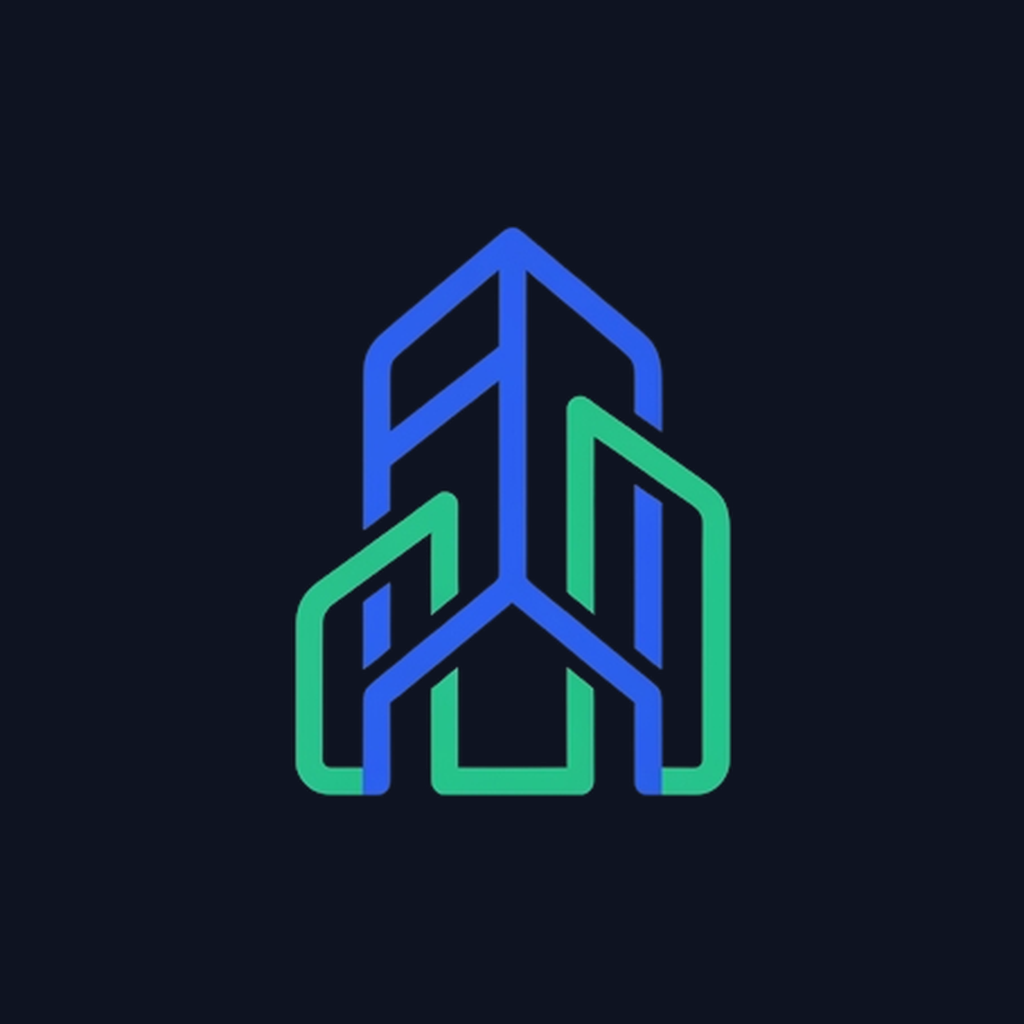
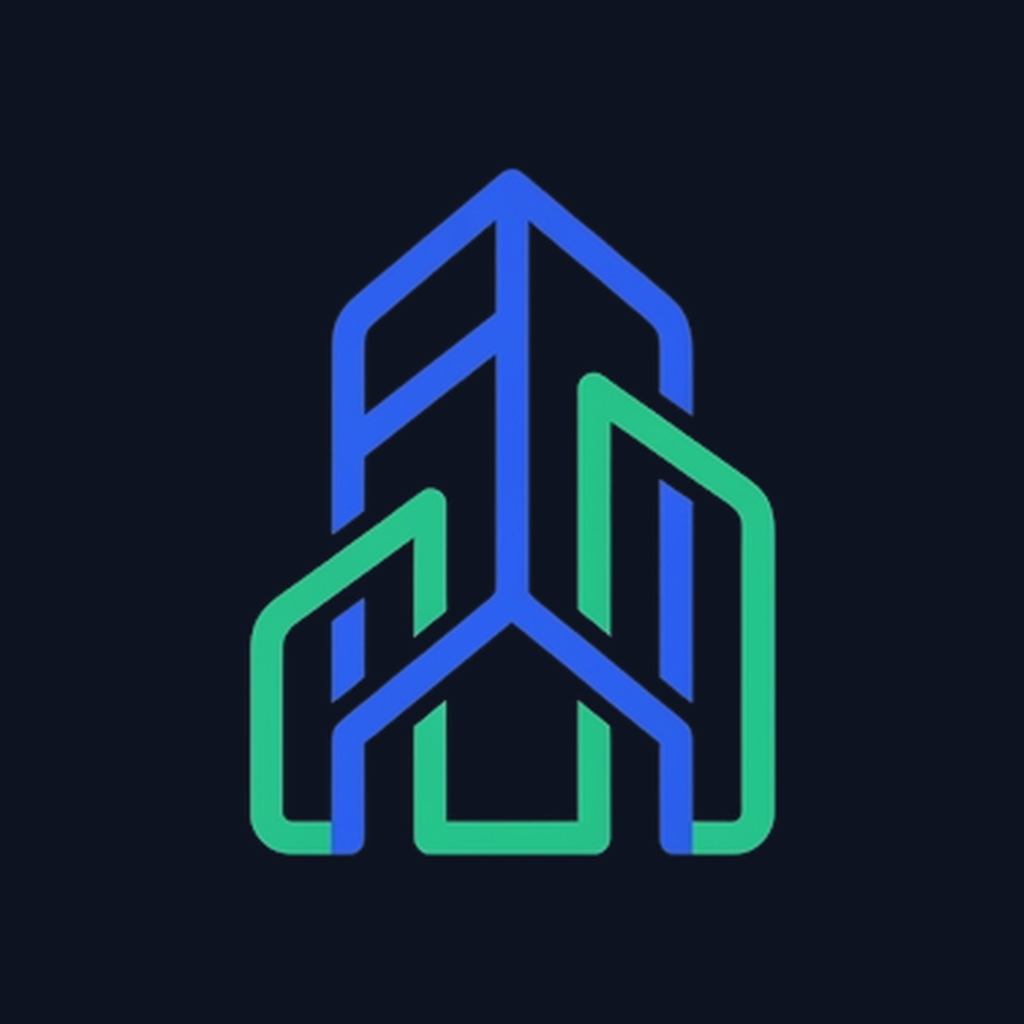
fix: ícono de la app pixelado + tabla y gráfica de Reportes
Íconos: el glifo ocupaba solo ~43% del lienzo de 1024x1024, así que
al verse a tamaño de ícono de app (40-70px) perdía definición y se
veía borroso/pixelado. Se recortó y reescaló el mismo glifo para
llenar más el marco (icon.png ~72% de alto, adaptive-icon.png ~60%
para respetar la zona segura circular de Android) y adaptive-icon.png
ahora usa el mismo fondo navy que backgroundColor en vez de blanco.
favicon.png regenerado igual.

Reportes:
- Tabla "Ingreso por Departamento" usaba columnas de ancho fijo con
  scroll horizontal siempre, dejando un hueco vacío grande en
  pantallas anchas. En desktop ahora las columnas usan flex y llenan
  el ancho completo de la tarjeta; en mobile se conserva el scroll
  horizontal con anchos fijos (necesario con 14 columnas angostas).
- Gráfica "Flujo mensual de recaudación": las barras no tenían
  interacción. Ahora al pasar el mouse (o tocar en móvil) sobre una
  barra aparece un tooltip con el mes, el desglose (renta/extras/
  depósitos) y el total. Además el área de barras ahora es flex y
  llena el alto disponible de la tarjeta en vez de dejar un espacio
  vacío grande debajo cuando la tarjeta se estira para igualar al
  panel lateral.

Claude-Session: https://claude.ai/code/session_01AUcRpMWinJWnXKiEepFJsK

Changed region(s): [[0.2188, 0.1562, 0.7812, 0.8438]]

diff --git a/frontend/app/(admin)/reportes/index.tsx b/frontend/app/(admin)/reportes/index.tsx
@@ -1,5 +1,5 @@
 import {
-  StyleSheet, View, Text, ScrollView, TouchableOpacity,
+  StyleSheet, View, Text, ScrollView, TouchableOpacity, Pressable,
   useColorScheme, ActivityIndicator, useWindowDimensions, Platform,
 } from 'react-native';
 import { useSafeAreaInsets } from 'react-native-safe-area-context';
@@ -15,6 +15,10 @@ import api from '../../../services/api';
 import { usePermisoGuard } from '../../../hooks/usePermisoGuard';
 
 const MESES = ['Ene', 'Feb', 'Mar', 'Abr', 'May', 'Jun', 'Jul', 'Ago', 'Sep', 'Oct', 'Nov', 'Dic'];
+const MESES_FULL = [
+  'Enero', 'Febrero', 'Marzo', 'Abril', 'Mayo', 'Junio',
+  'Julio', 'Agosto', 'Septiembre', 'Octubre', 'Noviembre', 'Diciembre',
+];
 
 export default function ReportesScreen() {
   usePermisoGuard('reportes');
@@ -34,6 +38,7 @@ export default function ReportesScreen() {
   const [ocup, setOcup] = useState<{ ocupados: number; total: number }>({ ocupados: 0, total: 0 });
   const [deuda, setDeuda] = useState(0);
   const [loading, setLoading] = useState(true);
+  const [hoverIdx, setHoverIdx] = useState<number | null>(null);
 
   const cargar = useCallback((y: number) => {
     setLoading(true);
@@ -68,7 +73,8 @@ export default function ReportesScreen() {
   const extraPct = totalGeneral > 0 ? Math.round(((reporte?.extra_total || 0) / totalGeneral) * 100) : 0;
   const depoPct = Math.max(0, 100 - rentaPct - extraPct);
 
-  const maxMes = Math.max(1, ...meses.map(m => (m.total ?? m.renta + m.extra)));
+  const mesesData = meses.length ? meses : MESES.map((_, i) => ({ mes: i + 1, renta: 0, extra: 0, deposito: 0, total: 0 }));
+  const maxMes = Math.max(1, ...mesesData.map((m: any) => (m.total ?? m.renta + m.extra + m.deposito)));
 
   /* ---------------- KPI ---------------- */
   const kpis = (
@@ -134,24 +140,66 @@ export default function ReportesScreen() {
               <View key={i} style={[styles.grid, { bottom: `${f * 100}%`, borderColor: theme.border }]} />
             ))}
             <View style={styles.bars}>
-              {(meses.length ? meses : MESES.map((_, i) => ({ mes: i + 1, renta: 0, extra: 0, deposito: 0, total: 0 }))).map((m: any, i) => {
+              {mesesData.map((m: any, i) => {
                 const depoH = (m.deposito / maxMes) * 100;
                 const extraH = (m.extra / maxMes) * 100;
                 const rentaH = (m.renta / maxMes) * 100;
                 const round = { borderTopLeftRadius: 3, borderTopRightRadius: 3 };
+                const active = hoverIdx === i;
                 return (
-                  <View key={i} style={styles.barStack}>
+                  <Pressable
+                    key={i}
+                    style={[styles.barStack, active && { opacity: 0.85 }]}
+                    onHoverIn={() => setHoverIdx(i)}
+                    onHoverOut={() => setHoverIdx(prev => (prev === i ? null : prev))}
+                    onPress={() => setHoverIdx(prev => (prev === i ? null : i))}
+                  >
                     {depoH > 0 && <View style={[styles.barSeg, { height: `${depoH}%`, backgroundColor: theme.warning }, round]} />}
                     {extraH > 0 && <View style={[styles.barSeg, { height: `${extraH}%`, backgroundColor: theme.primary }, depoH > 0 ? null : round]} />}
                     <View style={[styles.barSeg, { height: `${Math.max(rentaH, m.renta > 0 ? 2 : 0)}%`, backgroundColor: theme.success }, (depoH > 0 || extraH > 0) ? null : round]} />
-                  </View>
+                  </Pressable>
                 );
               })}
             </View>
+            {hoverIdx !== null && (() => {
+              const m = mesesData[hoverIdx];
+              const total = m.total ?? (m.renta + m.extra + m.deposito);
+              const leftPct = ((hoverIdx + 0.5) / mesesData.length) * 100;
+              return (
+                <View
+                  pointerEvents="none"
+                  style={[
+                    styles.tooltip,
+                    { left: `${leftPct}%`, borderColor: theme.border, backgroundColor: theme.card },
+                  ]}
+                >
+                  <Text style={[styles.tooltipMonth, { color: theme.text }]}>{MESES_FULL[hoverIdx]} {year}</Text>
+                  {m.renta > 0 && (
+                    <View style={styles.tooltipRow}>
+                      <View style={[styles.legendDot, { backgroundColor: theme.success }]} />
+                      <Text style={[styles.tooltipText, { color: theme.textSecondary }]}>Renta {fmt(m.renta)}</Text>
+                    </View>
+                  )}
+                  {m.extra > 0 && (
+                    <View style={styles.tooltipRow}>
+                      <View style={[styles.legendDot, { backgroundColor: theme.primary }]} />
+                      <Text style={[styles.tooltipText, { color: theme.textSecondary }]}>Extras {fmt(m.extra)}</Text>
+                    </View>
+                  )}
+                  {m.deposito > 0 && (
+                    <View style={styles.tooltipRow}>
+                      <View style={[styles.legendDot, { backgroundColor: theme.warning }]} />
+                      <Text style={[styles.tooltipText, { color: theme.textSecondary }]}>Depósitos {fmt(m.deposito)}</Text>
+                    </View>
+                  )}
+                  <Text style={[styles.tooltipTotal, { color: theme.text }]}>Total {fmt(total)}</Text>
+                </View>
+              );
+            })()}
           </View>
           <View style={styles.xAxis}>
             {MESES.map((mn, i) => (
-              <Text key={i} style={[styles.xLabel, { color: theme.textMuted }]}>{mn[0]}</Text>
+              <Text key={i} style={[styles.xLabel, { color: hoverIdx === i ? theme.text : theme.textMuted }]}>{mn[0]}</Text>
             ))}
           </View>
         </View>
@@ -210,36 +258,44 @@ export default function ReportesScreen() {
   );
 
   /* ---------------- Matriz depto × mes ---------------- */
+  const mtxDeptoStyle = [styles.mtxDepto, isDesktop && styles.mtxDeptoFlex];
+  const mtxCellStyle = [styles.mtxCell, isDesktop && styles.mtxCellFlex];
+  const mtxTotalStyle = [styles.mtxTotal, isDesktop && styles.mtxTotalFlex];
+
+  const tablaContent = (
+    <View>
+      <View style={[styles.mtxRow, { borderBottomColor: theme.border, backgroundColor: isDark ? 'rgba(255,255,255,0.04)' : 'rgba(15,23,42,0.03)' }]}>
+        <Text style={[...mtxDeptoStyle, styles.mtxHead, { color: theme.textMuted }]}>Depto</Text>
+        {MESES.map(mn => <Text key={mn} style={[...mtxCellStyle, styles.mtxHead, { color: theme.textMuted }]}>{mn}</Text>)}
+        <Text style={[...mtxTotalStyle, styles.mtxHead, { color: theme.text }]}>Total</Text>
+      </View>
+      {porDepto.map(d => (
+        <View key={d.depto_numero} style={[styles.mtxRow, { borderBottomColor: theme.border }]}>
+          <Text style={[...mtxDeptoStyle, { color: theme.text }]}>#{d.depto_numero}</Text>
+          {d.meses.map((v, i) => (
+            <Text key={i} style={[...mtxCellStyle, { color: v > 0 ? theme.text : theme.textMuted }]}>{v > 0 ? fmtCell(v) : '·'}</Text>
+          ))}
+          <Text style={[...mtxTotalStyle, { color: theme.success }]}>{fmt(d.total)}</Text>
+        </View>
+      ))}
+      <View style={[styles.mtxRow, { borderBottomWidth: 0, backgroundColor: isDark ? 'rgba(255,255,255,0.04)' : 'rgba(15,23,42,0.03)' }]}>
+        <Text style={[...mtxDeptoStyle, { color: theme.text, fontWeight: '800' }]}>Total</Text>
+        {meses.map((m, i) => (
+          <Text key={i} style={[...mtxCellStyle, { color: theme.text, fontWeight: '700' }]}>{m.total > 0 ? fmtCell(m.total) : '·'}</Text>
+        ))}
+        <Text style={[...mtxTotalStyle, { color: theme.primary, fontWeight: '800' }]}>{fmt(meses.reduce((s, m) => s + m.total, 0))}</Text>
+      </View>
+    </View>
+  );
+
   const matrizDeptos = porDepto.length > 0 && (
     <SurfaceCard padding={0} style={{ overflow: 'hidden' }}>
       <View style={[styles.compHead, { borderBottomColor: theme.border }]}>
         <Text style={[styles.panelTitle, { color: theme.textSecondary }]}>INGRESO POR DEPARTAMENTO · {year}</Text>
       </View>
-      <ScrollView horizontal showsHorizontalScrollIndicator>
-        <View>
-          <View style={[styles.mtxRow, { borderBottomColor: theme.border, backgroundColor: isDark ? 'rgba(255,255,255,0.04)' : 'rgba(15,23,42,0.03)' }]}>
-            <Text style={[styles.mtxDepto, styles.mtxHead, { color: theme.textMuted }]}>Depto</Text>
-            {MESES.map(mn => <Text key={mn} style={[styles.mtxCell, styles.mtxHead, { color: theme.textMuted }]}>{mn}</Text>)}
-            <Text style={[styles.mtxTotal, styles.mtxHead, { color: theme.text }]}>Total</Text>
-          </View>
-          {porDepto.map(d => (
-            <View key={d.depto_numero} style={[styles.mtxRow, { borderBottomColor: theme.border }]}>
-              <Text style={[styles.mtxDepto, { color: theme.text }]}>#{d.depto_numero}</Text>
-              {d.meses.map((v, i) => (
-                <Text key={i} style={[styles.mtxCell, { color: v > 0 ? theme.text : theme.textMuted }]}>{v > 0 ? fmtCell(v) : '·'}</Text>
-              ))}
-              <Text style={[styles.mtxTotal, { color: theme.success }]}>{fmt(d.total)}</Text>
-            </View>
-          ))}
-          <View style={[styles.mtxRow, { borderBottomWidth: 0, backgroundColor: isDark ? 'rgba(255,255,255,0.04)' : 'rgba(15,23,42,0.03)' }]}>
-            <Text style={[styles.mtxDepto, { color: theme.text, fontWeight: '800' }]}>Total</Text>
-            {meses.map((m, i) => (
-              <Text key={i} style={[styles.mtxCell, { color: theme.text, fontWeight: '700' }]}>{m.total > 0 ? fmtCell(m.total) : '·'}</Text>
-            ))}
-            <Text style={[styles.mtxTotal, { color: theme.primary, fontWeight: '800' }]}>{fmt(meses.reduce((s, m) => s + m.total, 0))}</Text>
-          </View>
-        </View>
-      </ScrollView>
+      {isDesktop ? tablaContent : (
+        <ScrollView horizontal showsHorizontalScrollIndicator>{tablaContent}</ScrollView>
+      )}
       <Text style={[styles.kpiMini, { color: theme.textMuted, padding: 12 }]}>
         Cifras en miles (k). Cuenta el dinero por el mes en que se recibió (renta, cuotas y depósitos), incluidos inquilinos que ya se dieron de baja.
       </Text>
@@ -328,16 +384,26 @@ const styles = StyleSheet.create({
   legendDot: { width: 8, height: 8, borderRadius: 4 },
   legendText: { fontSize: 11, fontWeight: '600' },
 
-  chartBody: { flexDirection: 'row', gap: 8 },
-  yAxis: { justifyContent: 'space-between', height: 220, width: 34 },
+  chartBody: { flexDirection: 'row', gap: 8, flex: 1 },
+  yAxis: { justifyContent: 'space-between', minHeight: 220, width: 34 },
   yLabel: { fontSize: 9.5, fontWeight: '600', fontVariant: ['tabular-nums'], textAlign: 'right' },
-  plot: { height: 220, position: 'relative' },
+  plot: { flex: 1, minHeight: 220, position: 'relative' },
   grid: { position: 'absolute', left: 0, right: 0, borderTopWidth: StyleSheet.hairlineWidth },
   bars: { position: 'absolute', left: 0, right: 0, top: 0, bottom: 0, flexDirection: 'row', alignItems: 'flex-end', justifyContent: 'space-around' },
-  barStack: { flex: 1, height: '100%', marginHorizontal: 3, maxWidth: 26, flexDirection: 'column', justifyContent: 'flex-end' },
+  barStack: { flex: 1, height: '100%', marginHorizontal: 3, maxWidth: 26, flexDirection: 'column', justifyContent: 'flex-end', cursor: 'pointer' as any },
   barSeg: { width: '100%', minHeight: 1 },
   xAxis: { height: 20, flexDirection: 'row', justifyContent: 'space-around', alignItems: 'center' },
   xLabel: { fontSize: 9, fontWeight: '700', flex: 1, textAlign: 'center' },
+
+  tooltip: {
+    position: 'absolute', top: 4, width: 152, marginLeft: -76,
+    borderWidth: 1, borderRadius: Theme.borderRadius.sm, padding: 10, gap: 4,
+    shadowColor: '#000', shadowOpacity: 0.25, shadowRadius: 8, shadowOffset: { width: 0, height: 4 }, elevation: 6,
+  },
+  tooltipMonth: { fontSize: 11.5, fontWeight: '800', marginBottom: 2 },
+  tooltipRow: { flexDirection: 'row', alignItems: 'center', gap: 6 },
+  tooltipText: { fontSize: 11, fontWeight: '600' },
+  tooltipTotal: { fontSize: 12, fontWeight: '800', marginTop: 4 },
 
   side: { flex: 1, gap: 12 },
   gaugeCard: { alignItems: 'center', gap: 16, minHeight: 200, justifyContent: 'center' },
@@ -352,6 +418,11 @@ const styles = StyleSheet.create({
   mtxDepto: { width: 60, paddingHorizontal: 12, paddingVertical: 11, fontSize: 12.5, fontWeight: '700' },
   mtxCell: { width: 46, textAlign: 'center', paddingVertical: 11, fontSize: 11.5 },
   mtxTotal: { width: 92, textAlign: 'right', paddingHorizontal: 12, paddingVertical: 11, fontSize: 12, fontWeight: '700' },
+  // En desktop la tabla no necesita scroll horizontal: las columnas se
+  // estiran (flex) para llenar el ancho completo de la tarjeta.
+  mtxDeptoFlex: { width: undefined, flex: 1.1 },
+  mtxCellFlex: { width: undefined, flex: 1 },
+  mtxTotalFlex: { width: undefined, flex: 1.4 },
   compLabel: { fontSize: 12.5, fontWeight: '600' },
   compVal: { fontSize: 11.5, fontVariant: ['tabular-nums'] },
   compPct: { fontSize: 12.5, fontWeight: '700', minWidth: 36, textAlign: 'right', fontVariant: ['tabular-nums'] },
